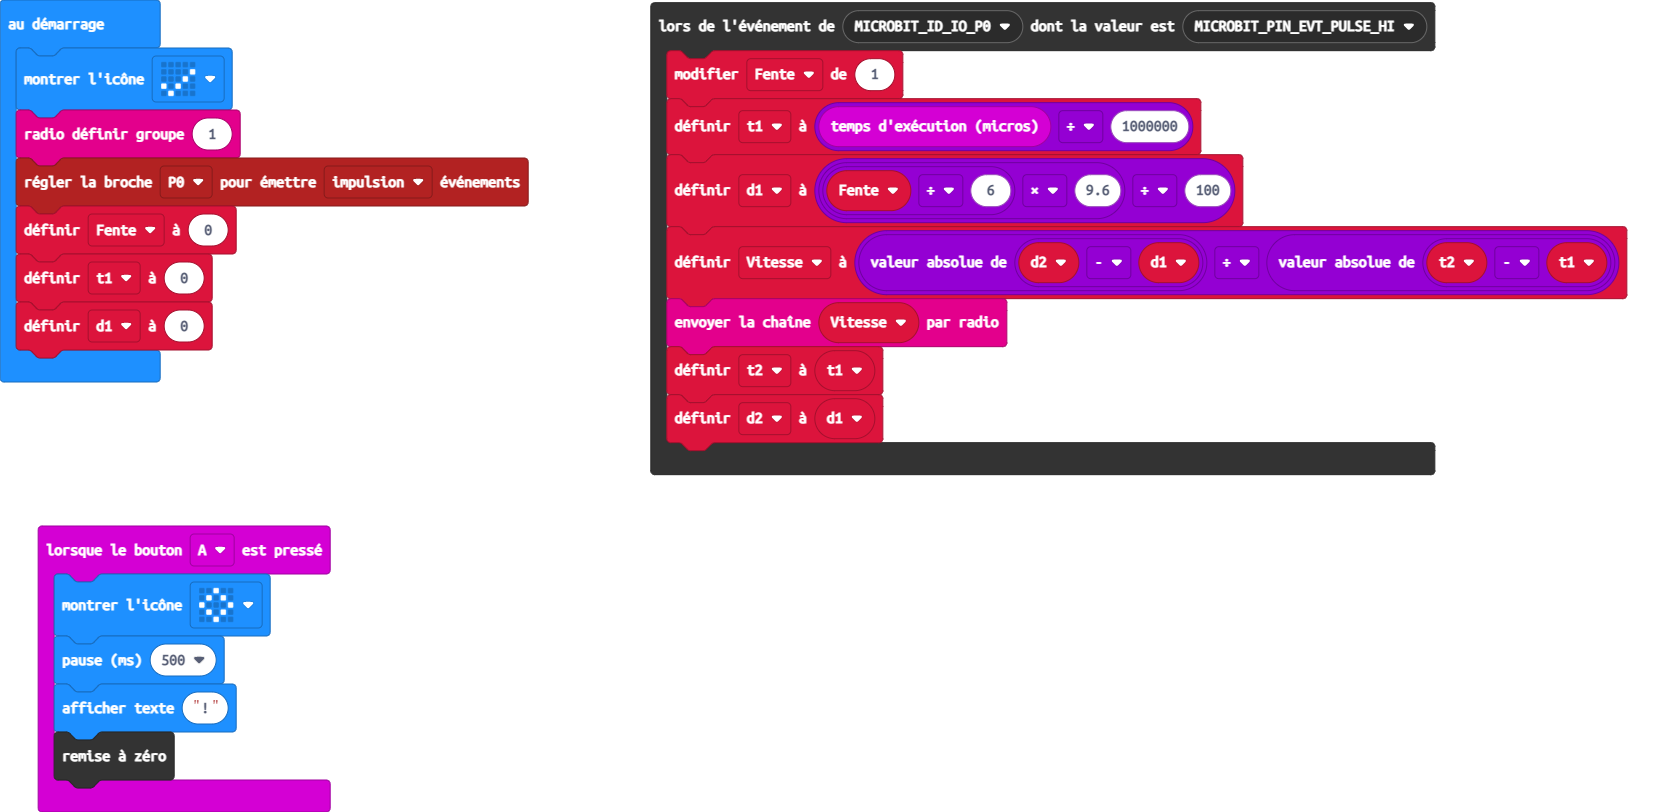
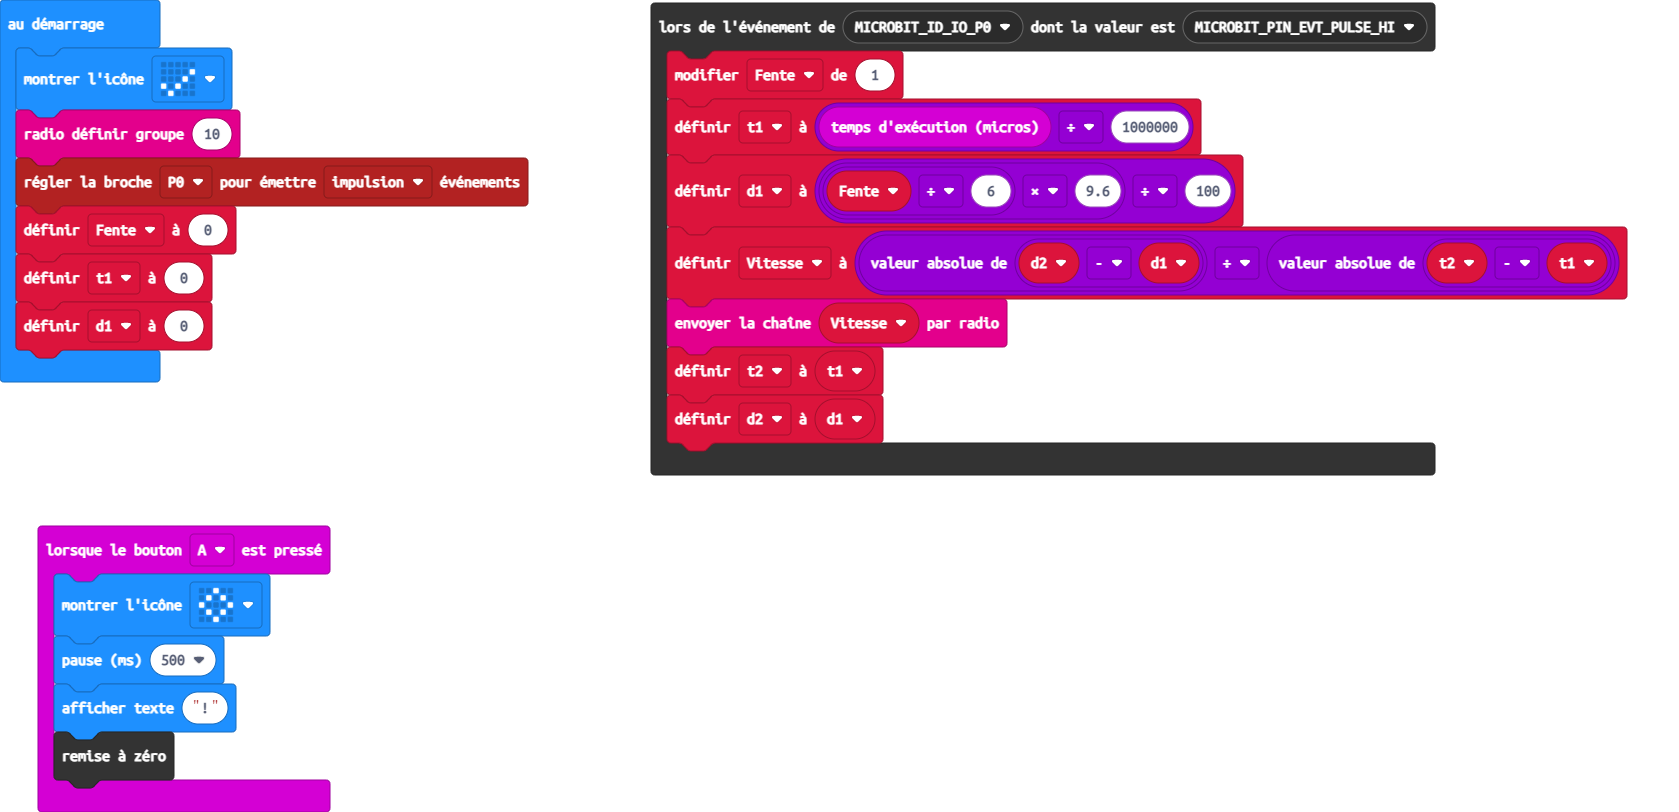
Mise à jour pxt.json, main.blocks, main.ts

diff --git a/main.ts b/main.ts
@@ -20,7 +20,7 @@ let d1 = 0
 let t1 = 0
 let Fente = 0
 basic.showIcon(IconNames.Yes)
-radio.setGroup(1)
+radio.setGroup(10)
 pins.setEvents(DigitalPin.P0, PinEventType.Pulse)
 Fente = 0
 t1 = 0
